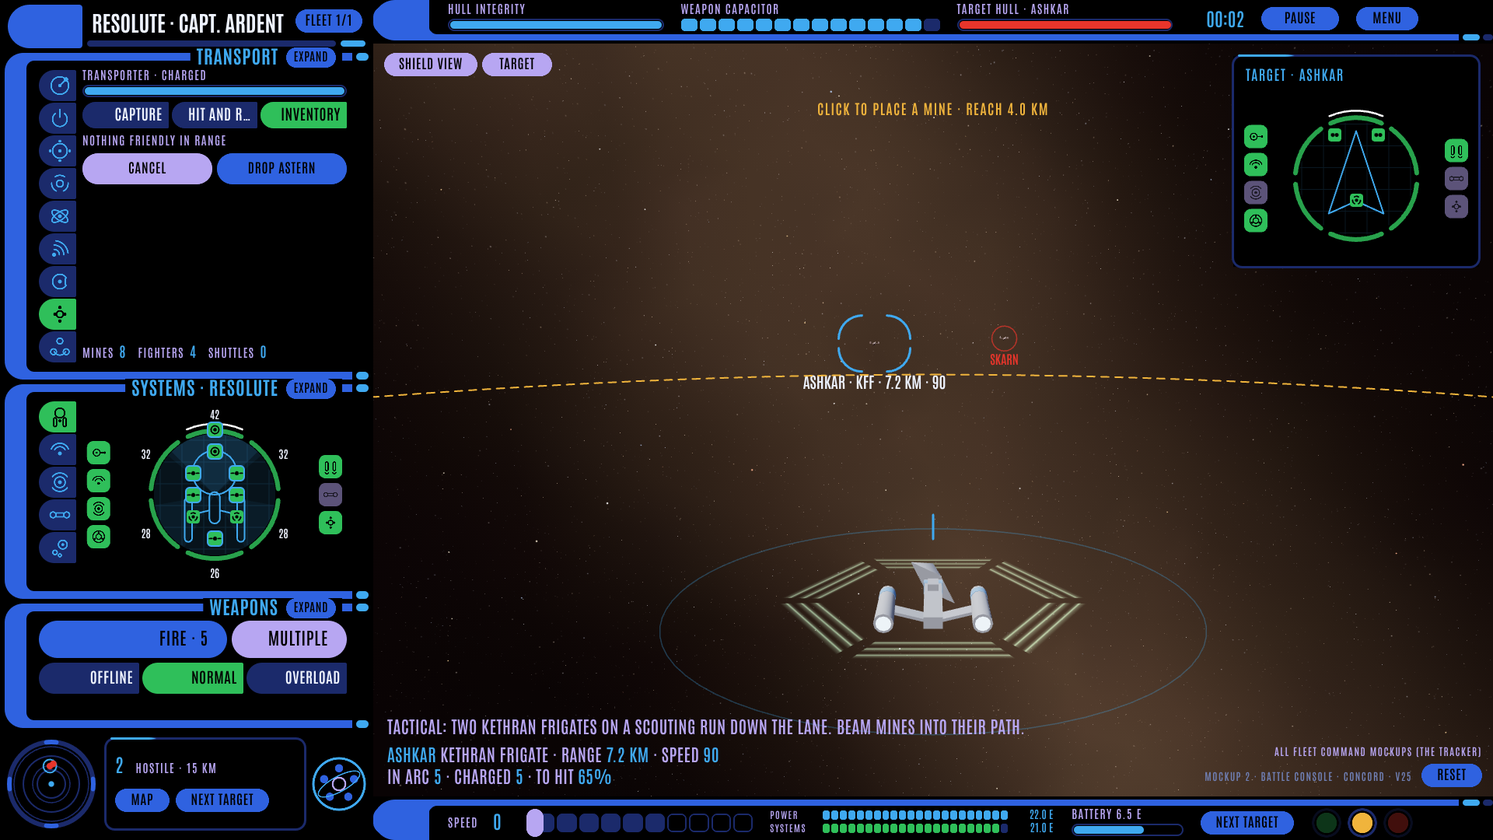
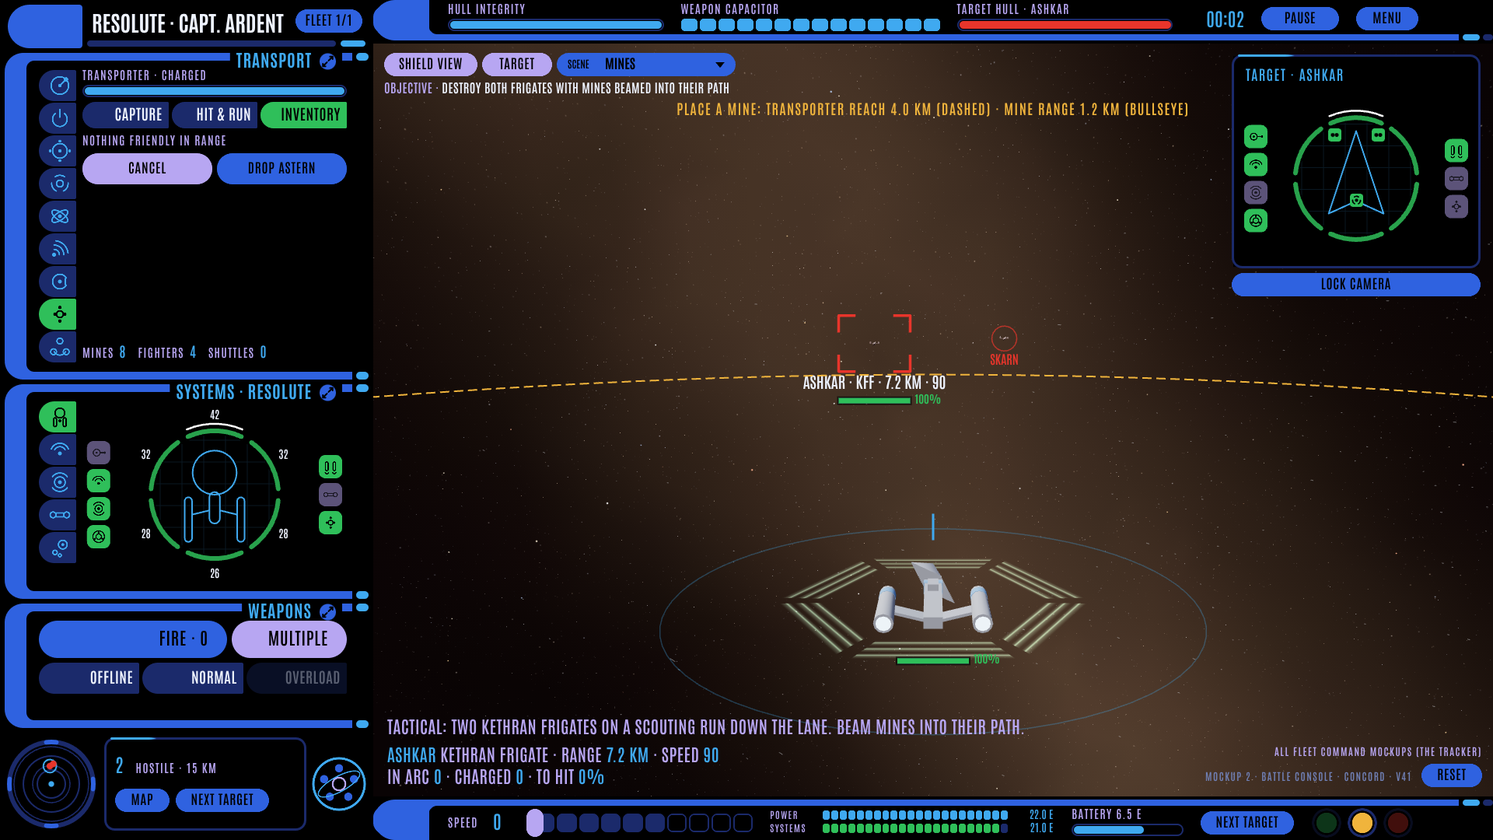
Battle console v41: scene drop-down with objectives, unarmed test ships, decisive tools
Claude-Session: https://claude.ai/code/session_01RGPQuqAYNNJKpzbbbZ3BfB

diff --git a/docs/mockups/battle-console.html b/docs/mockups/battle-console.html
@@ -576,10 +576,15 @@ const SHUTTLE = { speed_u_s: 5, dmg: 110 * 4, suspect_km: 1.5, catch_p_s: 0.25 }
 // missile every interval_s from the racks, each hitting at hit_p unless point defence takes it.
 const BARRAGE = { salvo: 6, interval_s: 0.2, hit_p: 0.85 };
 // The test scenes (owner, 2026-11-01: "I also want different test scenes"): picked from the menu, each a seeded world.
+// Each has an objective shown under the scene selector, done() saying when it is met. In a test scene the player's ship
+// carries no weapons (armed: false) and the scene's tool is decisive (lethal: one mine, one shuttle, a dragged ship into
+// a rock, a barrage past the point defence each destroy their target) (owner, 2026-11-02: "In mine scene, no weapons on
+// my player ship please, enemies should be destroyed by one mine, same with other missions in this demo. transport
+// missions will also not have weapons on ship").
 // `ships` override SCENARIO's list, `rocks` are asteroids { x, z, r } in units, `setup` adjusts the world once made.
 const SCENES = {
-  battle: { name: 'Battle', ships: null, target: 'vorrak', say: ['Helm', 'Kethran and Vos contacts ahead. Shields up.'] },
-  mines: { name: 'Mines', endless: true, target: 'ashkar',
+  battle: { name: 'Battle', objective: 'Destroy the Kethran and Vos ships', done: (W) => !W.ships.some((o) => o.alive && o.side === 1), ships: null, target: 'vorrak', say: ['Helm', 'Kethran and Vos contacts ahead. Shields up.'] },
+  mines: { name: 'Mines', objective: 'Destroy both frigates with mines beamed into their path', armed: false, lethal: ['mine'], done: (W) => !W.ships.some((o) => o.alive && o.side === 1), endless: true, target: 'ashkar',
     ships: [
       { id: 'resolute', name: 'Resolute', captain: 'Capt. Ardent', cls: 'ca', faction: 'concord', side: 0, x: 0, z: 0, h: 0, v: 0 },
       { id: 'ashkar', name: 'Ashkar', captain: 'Blade Oru', cls: 'kff', faction: 'kethran', side: 1, x: -6, z: -75, h: 178, v: 160 },
@@ -589,7 +594,7 @@ const SCENES = {
     // so the scene tests the mines, not a gunfight
     setup: (W) => { const s = W.player; s.mines = 8; s.power.weapons = 3; s.power.transport = 3; s.transporter = 1; for (const o of W.ships) if (o.side === 1) { o.ai.stance = 'run'; o.ai.fire = 'hold'; } },
     say: ['Tactical', 'Two Kethran frigates on a scouting run down the lane. Beam mines into their path.'] },
-  tractor: { name: 'Tractor', endless: true, target: 'vorrak',
+  tractor: { name: 'Tractor', objective: 'Hold the Vorrak and drag it into the rocks', armed: false, lethal: ['rock'], done: (W) => !ship('vorrak').alive, endless: true, target: 'vorrak',
     ships: [
       { id: 'resolute', name: 'Resolute', captain: 'Capt. Ardent', cls: 'ca', faction: 'concord', side: 0, x: 0, z: 0, h: 180, v: 0 },
       { id: 'vorrak', name: 'Vorrak', captain: 'Warlord Tesk', cls: 'kdd', faction: 'kethran', side: 1, x: 2, z: -22, h: 90, v: 60 },
@@ -598,7 +603,7 @@ const SCENES = {
     rocks: [{ x: 1, z: -12, r: 2.4 }, { x: -14, z: -30, r: 3 }, { x: 13, z: -36, r: 3.6 }, { x: -3, z: -50, r: 2.6 }, { x: 21, z: -16, r: 2.2 }, { x: -22, z: -12, r: 2.8 }, { x: 7, z: -62, r: 4 }, { x: -17, z: -58, r: 3.1 }, { x: 26, z: -48, r: 2.4 }],
     setup: (W) => { const s = W.player, v = ship('vorrak'); s.power.weapons = 2; s.power.tractor = 6; v.ai.stance = 'hold'; v.ai.fire = 'hold'; v.sys.tractor = 0.6; },
     say: ['Tactical', 'The Vorrak is astern, a rock between us. Hold it, then run and drag it into the rocks.'] },
-  boarding: { name: 'Boarding', endless: true, target: 'rattlejaw',
+  boarding: { name: 'Boarding', objective: 'Board the Rattlejaw and take it (raid its systems first, if you like)', armed: false, done: (W) => ship('rattlejaw').side === 0, endless: true, target: 'rattlejaw',
     ships: [
       { id: 'resolute', name: 'Resolute', captain: 'Capt. Ardent', cls: 'ca', faction: 'concord', side: 0, x: 0, z: 0, h: 0, v: 0 },
       { id: 'rattlejaw', name: 'Rattlejaw', captain: 'Mother Skeel', cls: 'vcr', faction: 'vos', side: 1, x: 5, z: -18, h: 200, v: 0 },
@@ -610,7 +615,7 @@ const SCENES = {
     say: ['Tactical', 'Rattlejaw is crippled, shields down. Raid its systems, or board and take it.'] },
   // Owner, 2026-11-02: warp, with "quantum-gravitational stability - requires safety override if environment is highly
   // unstable. this usually happens around neutron stars, black holes, and anomalies".
-  warp: { name: 'Warp', target: 'ashkar', endless: true,
+  warp: { name: 'Warp', objective: 'Jump to warp before the frigates catch you', armed: false, done: (W) => !!W.player.jumped, target: 'ashkar', endless: true,
     ships: [
       { id: 'resolute', name: 'Resolute', captain: 'Capt. Ardent', cls: 'ca', faction: 'concord', side: 0, x: 0, z: 0, h: 0, v: 0 },
       { id: 'ashkar', name: 'Ashkar', captain: 'Blade Oru', cls: 'kff', faction: 'kethran', side: 1, x: 40, z: 120, h: 300, v: 160 },
@@ -621,7 +626,7 @@ const SCENES = {
     setup: (W) => { const s = W.player; s.warp.banks = 12; s.warp.nacelles[0].hp = 0.7; s.reactor.coolant = 0.8; s.power.warp = 4; s.power.weapons = 4; },
     say: ['Helm', 'Kethran frigates closing from astern, and the neutron star ahead bends space. Charge the banks, plot a course and jump.'] },
   // Owner, 2026-11-01: "A delivery mission from a station to a planet".
-  delivery: { name: 'Delivery', target: null, endless: true,
+  delivery: { name: 'Delivery', objective: 'Take 10 crates from Harbor Nine and beam them down to Tessaly', armed: false, done: (W) => W.planets[0].got >= W.planets[0].need, target: null, endless: true,
     ships: [
       { id: 'resolute', name: 'Resolute', captain: 'Capt. Ardent', cls: 'ca', faction: 'concord', side: 0, x: 0, z: 0, h: 0, v: 0 },
       { id: 'harbor', name: 'Harbor Nine', captain: 'Stationmaster Pell', cls: 'sb', faction: 'concord', side: 0, x: 8, z: -12, h: 0, v: 0 },
@@ -630,7 +635,7 @@ const SCENES = {
     setup: (W) => { const s = W.player, h = ship('harbor'); s.cargo = 0; s.power.transport = 3; s.transporter = 1; h.cargo = 20; h.cargoCap = 40; invDest = 'harbor'; },
     say: ['Comms', 'Harbor Nine: ten crates of medical stores for Tessaly. Beam them aboard and take them down.'] },
   // Owner: "The vip one is similar but you transport him on a ship with Marines and he works to capture a station".
-  vip: { name: 'VIP', target: 'varn', endless: true,
+  vip: { name: 'VIP', objective: 'Beam the envoy to the Corrin and see Varn Outpost taken', armed: false, done: (W) => ship('varn').side === 0, target: 'varn', endless: true,
     ships: [
       { id: 'resolute', name: 'Resolute', captain: 'Capt. Ardent', cls: 'ca', faction: 'concord', side: 0, x: 0, z: 0, h: 0, v: 0 },
       { id: 'corrin', name: 'Corrin', captain: 'Major Vale', cls: 'tr', faction: 'concord', side: 0, x: -7, z: 4, h: 0, v: 0 },
@@ -639,19 +644,19 @@ const SCENES = {
     setup: (W) => { const s = W.player, c = ship('corrin'), v = ship('varn'); s.vip = 'Envoy Saros'; s.vipName = 'Envoy Saros'; s.power.transport = 3; s.transporter = 1; invDest = 'corrin';
       c.ai.capture = 'varn'; c.vipName = 'Envoy Saros';
       // the outpost is worn down: weak shields that do not regenerate, most of its guns out
-      v.shields = v.shields.map(() => 8); v.power.shields = 0; v.marines = 8; v.mounts.forEach((m, i) => { if (i > 1 && m.w !== 'pd') { m.hp = 0; m.charge = 0; } }); },
-    say: ['Comms', 'Envoy Saros is aboard. Beam him to the Corrin; it takes him and its marines to Varn Outpost. Knock a shield facing down for them.'] },
+      v.shields = v.shields.map(() => 0); v.shUp = false; v.power.shields = 0; v.ai.fire = 'hold'; v.marines = 8; v.mounts.forEach((m, i) => { if (i > 1 && m.w !== 'pd') { m.hp = 0; m.charge = 0; } }); },
+    say: ['Comms', 'Envoy Saros is aboard. Beam him to the Corrin; it takes him and its marines to Varn Outpost, whose shields have failed.'] },
   // Owner: "Shuttle scene - a disguised shuttle leaves your ship and suicide bombs a station."
-  shuttle: { name: 'Shuttle', target: 'varn', endless: true,
+  shuttle: { name: 'Shuttle', objective: 'Destroy Varn Outpost with a disguised shuttle', armed: false, lethal: ['shuttle'], done: (W) => !ship('varn').alive, target: 'varn', endless: true,
     ships: [
       { id: 'resolute', name: 'Resolute', captain: 'Capt. Ardent', cls: 'ca', faction: 'concord', side: 0, x: 0, z: 0, h: 0, v: 0 },
       { id: 'varn', name: 'Varn Outpost', captain: 'Castellan Dorr', cls: 'sb', faction: 'kethran', side: 1, x: 0, z: -100, h: 0, v: 0 },
     ],
-    setup: (W) => { const s = W.player; s.shuttles = 3; },
+    setup: (W) => { const s = W.player; s.shuttles = 3; ship('varn').ai.fire = 'hold'; },
     say: ['Flight deck', 'Three shuttles fitted out as freighters, charges aboard. Launch them at Varn Outpost from the Craft panel.'] },
   // Owner: "Fighters scene. Deploy fighters to take down another ships defenses, and fire a missile barage to take it
   // down."
-  fighters: { name: 'Fighters', target: 'ironhold', endless: true,
+  fighters: { name: 'Fighters', objective: 'Strip the Ironhold\'s point defence with fighters, then destroy it with a missile barrage', armed: false, lethal: ['barrage'], done: (W) => !ship('ironhold').alive, target: 'ironhold', endless: true,
     ships: [
       { id: 'resolute', name: 'Resolute', captain: 'Capt. Ardent', cls: 'ca', faction: 'concord', side: 0, x: 0, z: 0, h: 0, v: 0 },
       { id: 'ironhold', name: 'Ironhold', captain: 'Warlord Brask', cls: 'kdd', faction: 'kethran', side: 1, x: 0, z: -60, h: 180, v: 0 },
@@ -739,7 +744,8 @@ function makeShip(d) {
     het: null, hetChance: clamp(0.95 - c.len_m / 2000, 0.6, 0.95), broke: 0, erratic: false, estop: false, estopT: 0, orbitDir: 1, holdKm: 6, runMin: 2, runMax: 8, runPhase: 'in',
     alert: 'yellow', priority: 'engines', alive: true, flash: [0, 0, 0, 0, 0, 0], thinkT: 0, volley: true, intercepts: 0 };
 }
-let sceneId = 'battle';
+// the scene last picked, remembered in this browser (a convenience; the page works without it)
+let sceneId = (() => { try { const v = localStorage.getItem('fc.battle.scene'); return v && SCENES[v] ? v : 'battle'; } catch (e) { return 'battle'; } })();
 function newWorld(id = sceneId) {
   const sc = SCENES[id]; sceneId = id;
   const planets = (sc.planets || []).map((pl) => ({ got: 0, need: 0, ...pl }));
@@ -751,6 +757,8 @@ function newWorld(id = sceneId) {
   W.player.target = sc.target;
   for (const s of W.ships) if (s.side === 1) s.ecm = 1;
   if (sc.setup) sc.setup(W);
+  if (sc.armed === false) W.player.mounts = [];
+  W.lethal = new Set(sc.lethal || []); W.objDone = false;
   W.hadFoes = W.ships.some((o) => o.side === 1);
   say(sc.say[0], sc.say[1]);
 }
@@ -771,6 +779,7 @@ function step() {
   for (const s of W.ships) if (s.alive && s.beam) towStep(s);
   rocksStep();
   pdStep(); shotsStep(); minesStep(); craftStep();
+  if (!W.objDone && SCENES[sceneId].done && SCENES[sceneId].done(W)) { W.objDone = true; say('Comms', `Objective complete: ${SCENES[sceneId].objective}.`); }
   const foes = W.ships.filter((s) => s.side === 1 && s.alive).length;
   // test scenes run on after the last enemy is gone (a capture should be seen joining the fleet); restart from the menu
   if (!foes && SCENES[sceneId].endless) { if (!W.endSaid && W.hadFoes) { W.endSaid = true; say('Tactical', W.overWhy || 'No hostile ships left. Restart the scene from the menu.'); } }
@@ -889,7 +898,7 @@ function rocksStep() {
       s.bumpT = ROCK.cooldown_s; s.v *= ROCK.speed_frac;
       const dmg = Math.round(ROCK.dmg * Math.max(ROCK.speed_floor, spd / ROCK.speed_ref_m_s));
       say('Tactical', `${s.name} hits ${r.name || 'an asteroid'} at ${Math.round(spd)} m/s: ${dmg} damage.`);
-      damage(s, { x: r.x, z: r.z, side: -1 }, dmg, 'hull');
+      damage(s, { x: r.x, z: r.z, side: -1 }, W.lethal.has('rock') && s !== W.player && !r.planet ? s.hull + 400 : dmg, 'hull');
     }
   }
 }
@@ -1089,7 +1098,7 @@ function damage(t, src, dmg, aim) {
     if (t === W.player) say('Engineering', l.hp <= 0 ? `Coolant loop ${'AB'[j]} offline.` : `Coolant loop ${'AB'[j]} damaged.`); }
   // a hit may damage a warp nacelle
   if (R() < 0.15) { const n = t.warp.nacelles[Math.floor(R() * t.warp.nacelles.length)]; n.hp = Math.max(0, n.hp - 0.25); if (t === W.player) say('Engineering', n.hp <= 0 ? 'A warp nacelle is out.' : 'Warp nacelle damaged.'); }
-  if (R() < 0.15 + (aim === 'weapons' ? 0.25 : 0)) { const m = t.mounts[Math.floor(R() * t.mounts.length)]; m.hp = Math.max(0, m.hp - 0.6); if (m.hp <= 0) m.charge = 0; }
+  if (t.mounts.length && R() < 0.15 + (aim === 'weapons' ? 0.25 : 0)) { const m = t.mounts[Math.floor(R() * t.mounts.length)]; m.hp = Math.max(0, m.hp - 0.6); if (m.hp <= 0) m.charge = 0; }
   if (t.side === 0 || src.side === 0) if (t === W.player || src === W.player) say(t === W.player ? 'Engineering' : 'Tactical', t === W.player ? `Hull hit through the ${FACINGS[f]} shield.` : `Hit on ${t.name}, ${FACINGS[f]} facing.`);
   if (t.hull <= 0) { t.hull = 0; t.alive = false; t.v = 0; boom(t); say('Tactical', `${t.name} destroyed.`); for (const o of W.ships) if (o.target === t.id) o.target = null; }
 }
@@ -1125,7 +1134,7 @@ function pdStep() {
 function minesStep() {
   for (const mn of W.mines) {
     mn.arm -= DT; if (mn.arm > 0 || mn.gone) continue;
-    for (const s of W.ships) if (s.alive && s.side !== mn.side && Math.hypot(s.x - mn.x, s.z - mn.z) < MINE.trigger_u) { damage(s, { x: mn.x, z: mn.z, side: mn.side }, MINE.dmg, 'hull'); mn.gone = true; boomAt(mn.x, mn.z, 0.8); say('Tactical', `Mine detonated on ${s.name}.`); break; }
+    for (const s of W.ships) if (s.alive && s.side !== mn.side && Math.hypot(s.x - mn.x, s.z - mn.z) < MINE.trigger_u) { damage(s, { x: mn.x, z: mn.z, side: mn.side }, W.lethal.has('mine') ? s.hull + 400 : MINE.dmg, 'hull'); mn.gone = true; boomAt(mn.x, mn.z, 0.8); say('Tactical', `Mine detonated on ${s.name}.`); break; }
   }
   W.mines = W.mines.filter((m) => !m.gone);
 }
@@ -1262,7 +1271,7 @@ const A = {
     if (s.mines <= 0 || s.mineCool > 0 || s.transporter < 1) return;
     const d = Math.hypot(x - s.x, z - s.z) / 10; if (d > TRANSPORT.range_km) { say('Transport', `Out of transporter range (${km(TRANSPORT.range_km)}).`); return; }
     s.mines--; s.mineCool = MINE.cooldown_s; s.transporter = 0; W.mines.push({ x, z, side: s.side, arm: MINE.arm_s }); say('Transport', `Mine beamed out to ${km(d)}.`); },
-  scene: (id) => { sceneId = id; A.reset(); menuOpen = false; },
+  scene: (id) => { sceneId = id; try { localStorage.setItem('fc.battle.scene', id); } catch (e) { /* storage blocked */ } A.reset(); menuOpen = false; },
   // Warp: plot a course on the heading ordered now, the safety override, and the jump.
   plot: () => { const w = W.player.warp; w.plotting = true; w.plotH = W.player.hOrder; w.plot = 0; w.drift = false; say('Navigation', `Plotting a course on ${String(Math.round(((w.plotH / DEG) + 360) % 360)).padStart(3, '0')}.`); },
   override: () => { const w = W.player.warp; w.override = !w.override; say('Helm', w.override ? 'Safety override on.' : 'Safety override off.'); },
@@ -1370,7 +1379,7 @@ function shuttleStep(c) {
     c.caught = true; c.gone = true; boomAt(c.x, c.z, 0.6); say('Tactical', `${t.name} saw through the shuttle and shot it down.`); return;
   }
   if (d <= sp + hullR(t)) {
-    c.gone = true; boomAt(c.x, c.z, 2.2); t.hull -= SHUTTLE.dmg;
+    c.gone = true; boomAt(c.x, c.z, 2.2); t.hull -= W.lethal.has('shuttle') ? t.hull : SHUTTLE.dmg;
     const keys = Object.keys(t.sys); t.sys[keys[Math.floor(W.rand.dmg() * keys.length)]] *= 0.4;
     say('Tactical', `Shuttle detonated against ${t.name}: ${SHUTTLE.dmg} damage to the hull.`);
     if (t.hull <= 0) { t.hull = 0; t.alive = false; t.v = 0; boom(t); say('Tactical', `${t.name} destroyed.`); for (const o of W.ships) if (o.target === t.id) o.target = null; }
@@ -1385,7 +1394,7 @@ function barrageStep(s) {
   if ((s.barrageT -= DT) > 0) return;
   s.barrageT = BARRAGE.interval_s; s.barrage--; s.missiles--;
   const w = WEAPONS.missile, side = s.barrage % 2 ? 1 : -1, r = rightOf(s.h);
-  W.shots.push({ kind: 'missile', x: s.x + r[0] * side, z: s.z + r[1] * side, to: t.id, from: s.id, hit: W.rand.hit() < BARRAGE.hit_p, dmg: w.dmg, speed: w.speed_m_s / M_PER_U, color: w.color, life: 30, aim: 'hull' });
+  W.shots.push({ kind: 'missile', x: s.x + r[0] * side, z: s.z + r[1] * side, to: t.id, from: s.id, hit: W.rand.hit() < BARRAGE.hit_p, dmg: W.lethal.has('barrage') ? CLASSES[t.cls].hull / 3 : w.dmg, speed: w.speed_m_s / M_PER_U, color: w.color, life: 30, aim: 'hull' });
 }
 const KEYS = { KeyA: () => A.turn(-15), KeyD: () => A.turn(15), KeyQ: () => A.turn(-45), KeyE: () => A.turn(45), KeyW: () => A.speedStep(1), KeyS: () => A.speedStep(-1),
   KeyX: () => A.allStop(), Space: () => A.fire(), Tab: () => A.nextTarget(), KeyP: () => A.pause(), Escape: () => (expanded ? A.expand(expanded) : A.menu()), KeyM: () => A.volley() };
@@ -2460,6 +2469,7 @@ function uiWeapons(r, big) {
 // The picked mount's details (the lower half of the expanded weapons panel): every figure from the rules the shot uses.
 let wDetail = 0;
 function weaponDetail(r, s, t) {
+  if (!s.mounts.length) { LBL('No weapons fitted', r.x, r.y + 26, 0, CC.lilac, 'left', 18); return; }
   const m = s.mounts[wDetail] || s.mounts[0], w = spec(m), st = mountStatus(s, m), cool = cooldownS(m), x0 = r.x, cw = r.w / 2 - 12;
   text(`${m.i + 1} · ${WEAPONS[m.w].name}`.toUpperCase(), x0, r.y + 26, '700 26px Antonio', CC.sky, 'left', cw, '1px');
   pairs('wd.a', x0, r.y + 62, [['Status', st, STATUS_COL[st]], ['Health', pct(clamp(m.hp, 0, 1))]], cw, 20);
@@ -2908,7 +2918,13 @@ function uiView() {
   button('v.shields', vx + 14, vy + 12, 120, 30, 'Shield view', () => { showShields = !showShields; }, { sel: () => showShields, center: true });
   button('v.target', vx + 140, vy + 12, 90, 30, 'Target', () => { showTargetCam = !showTargetCam; }, { sel: () => showTargetCam, center: true });
   // The scene selector (owner, 2026-11-02: "I would like a scene selector"): the scene in play, and a list to pick from.
-  button('v.scene', vx + 236, vy + 12, 190, 30, `Scene · ${SCENES[sceneId].name}`, () => { sceneOpen = !sceneOpen; }, { sel: () => sceneOpen, center: true });
+  { // a drop-down: the label, the scene in play, an arrow; the objective under it, green and marked once met
+    const sx = vx + 236, sw = 230, st = hit('v.scene', sx, vy + 12, sw, 30, { click: () => { sceneOpen = !sceneOpen; }, tip: 'Pick a test scene' });
+    g.fillStyle = st.hot || sceneOpen ? CC.sky : CC.signal; g.beginPath(); g.roundRect(sx, vy + 12, sw, 30, 15); g.fill();
+    g.fillStyle = '#000'; g.font = '600 13px Antonio'; g.textAlign = 'left'; g.fillText('SCENE', sx + 14, vy + 32);
+    g.font = '700 17px Antonio'; g.fillText(SCENES[sceneId].name.toUpperCase(), sx + 62, vy + 33);
+    g.beginPath(); const ax = sx + sw - 20, ay = vy + 27; if (sceneOpen) { g.moveTo(ax - 6, ay + 3); g.lineTo(ax + 6, ay + 3); g.lineTo(ax, ay - 4); } else { g.moveTo(ax - 6, ay - 3); g.lineTo(ax + 6, ay - 3); g.lineTo(ax, ay + 4); } g.closePath(); g.fill();
+    const ob = SCENES[sceneId].objective; if (ob && !sceneOpen) rich(vx + 14, vy + 64, [[W.objDone ? 'COMPLETE · ' : 'OBJECTIVE · ', W.objDone ? CC.accord : CC.lilac], [ob.toUpperCase(), W.objDone ? CC.accord : CC.text]], '600 16px Antonio', vw * 0.62); }
   if (paused) LBL('Paused · orders still taken', vx + vw / 2, vy + 40, 0, CC.caution, 'center', 28);
   // The readout and the last officer's message, bottom left.
   const ry = vy + vh - 16;
@@ -2928,12 +2944,12 @@ function uiView() {
     button('v.camlock', bx, by + ir[3] + 6, ir[2], 30, camLock ? 'Camera locked' : 'Lock camera', A.camLock, { sel: () => camLock, center: true });
   }
   if (lock) button('v.lock', lock[0], lock[1], 140, 30, 'Lock target', () => A.lock(lock[2]), { center: true });
-  LBL('Mockup 2 · Battle console · Concord · v40', vx + vw - 104, vy + vh - 20, 0, '#6f7fb4', 'right', 13);
+  LBL('Mockup 2 · Battle console · Concord · v41', vx + vw - 104, vy + vh - 20, 0, '#6f7fb4', 'right', 13);
   button('v.reset', vx + vw - 92, vy + vh - 42, 78, 30, 'Reset', A.reset, { center: true });
   if (sceneOpen) {
     // a click anywhere else closes the list
     hit('v.scene.off', vx, vy, vw, vh, { click: () => { sceneOpen = false; } });
-    const list = Object.entries(SCENES), lx = vx + 236, ly = vy + 48, lw = 190;
+    const list = Object.entries(SCENES), lx = vx + 236, ly = vy + 48, lw = 230;
     g.fillStyle = 'rgba(0,0,0,0.85)'; g.beginPath(); g.roundRect(lx - 6, ly - 6, lw + 12, list.length * 38 + 8, 10); g.fill();
     list.forEach(([k, v], i) => button(`v.scene.${k}`, lx, ly + i * 38, lw, 32, v.name, () => { sceneOpen = false; A.scene(k); }, { sel: () => k === sceneId, center: true }));
   }

diff --git a/docs/mockups/tracker.html b/docs/mockups/tracker.html
@@ -111,7 +111,7 @@ const MOCKUPS = [
     url: 'https://claude.ai/artifact/UBbAouwAU3JvcbGf6MhzLt', published: '2026-10-30', version: 5,
     summary: 'Main menu, skirmish (scenario, point budget, fleet and loadout), the campaign hex map with standees, port panels and missions, deploy, a stand-in battle, results, and back to the map.' },
   { id: 'M2', title: 'In-game UI', change: 'battle-console', page: 'docs/mockups/battle-console.html',
-    url: 'https://claude.ai/artifact/9yertq3bYQRmFiDE7N9eBs', published: '2026-11-02', version: 40,
+    url: 'https://claude.ai/artifact/9yertq3bYQRmFiDE7N9eBs', published: '2026-11-02', version: 41,
     summary: 'The battle console in the Concord skin around a live stand-in battle, desktop first: nine stations and five ship pages on narrow columns of icon tabs named on hover, the ship systems display, weapons, radar and tactical map, a speed handle, Power over Systems with the battery, and the power station\'s Reactor mode: a diagram of the core, coils and coolant loops worked by hand, with a meltdown to avoid. Every panel works and expands.' },
   { id: 'M3', title: 'Look dev', change: 'look-dev', page: 'docs/mockups/look-dev.html',
     url: '', published: '', version: 0,

diff --git a/openspec/changes/battle-console/design.md b/openspec/changes/battle-console/design.md
@@ -288,6 +288,26 @@ The energy in the tractor is drawn every second like any other system, so holdin
 shields. In the 3D view the beam is a pale line from holder to held, brighter as the grip tightens. An enemy holds you
 only by turning your beam; whether enemies should start a hold on their own is B11.
 
+## 4m. Objectives, unarmed test ships, decisive tools (version 41)
+
+Owner, 2026-11-02: "show proper scene selection here, and show the objective of current scene. In mine scene, no weapons
+on my player ship please, enemies should be destroyed by one mine, same with other missions in this demo. transport
+missions will also not have weapons on ship etc...", and "current scene always says scene battle right now".
+
+- **The scene selector is a drop-down**: SCENE, the scene in play, an arrow; its list opens under it. The scene picked is
+  remembered in this browser, so a reload keeps it (the likely cause of "always says battle": a reload restarted the page
+  in Battle).
+- **Each scene has an objective**, shown under the selector, turning green and marked COMPLETE when met (and announced in
+  the log): Battle, destroy the Kethran and Vos ships; Mines, destroy both frigates with mines; Tractor, drag the Vorrak
+  into the rocks; Boarding, take the Rattlejaw; Warp, jump before the frigates catch you; Delivery, 10 crates to
+  Tessaly; VIP, see Varn Outpost taken; Shuttle, destroy Varn Outpost with a shuttle; Fighters, strip the Ironhold's
+  point defence, then destroy it with a barrage.
+- **In every test scene the Resolute carries no weapons**; the scene's tool does the work.
+- **The tool is decisive**: one mine destroys a frigate; a ship dragged into a rock breaks up; one disguised shuttle
+  destroys the outpost; each barrage missile that lands takes a third of the target's hull, so a barrage past the point
+  defence finishes it. The VIP scene's outpost has lost its shields and holds fire; the shuttle scene's outpost holds fire.
+- Measured: every scene played through to its objective with an unarmed Resolute.
+
 ## 4l. The mine placement preview (version 40)
 
 Owner, 2026-11-02: "when placing mines, need to draw radius of mine when mouse hovers over the battle field, mine

diff --git a/docs/artifacts/battle-console/README.md b/docs/artifacts/battle-console/README.md
@@ -58,3 +58,4 @@
 - Version 38 published 2026-11-02, version id `1793601438-8fb3`: the evasive icon redrawn (a bold zigzag with its head aimed along the last stroke).
 - Version 39 published 2026-11-02, version id `1793601524-e678`: a failed high energy turn damages the impulse engines and leaves the ship dead in space for 15 s (the owner's rule); the readouts renamed To hit, HET (counting a breakdown down), Heading, Speed.
 - Version 40 published 2026-11-02, version id `1793601692-846d`: the mine placement preview (an animated bullseye of the mine's 1.2 km range under the pointer: yellow, red with a ship in range, grey and "Invalid position" outside the 4 km transporter reach).
+- Version 41 published 2026-11-02, version id `1793601920-a5e5`: the scene selector as a drop-down (remembered across reloads) with the scene's objective under it (green, COMPLETE when met); an unarmed Resolute in every test scene; each scene's tool decisive (one mine, one shuttle, a rock, a barrage past the point defence).

diff --git a/mockup-work.md b/mockup-work.md
@@ -22,7 +22,7 @@ account and every link here is updated.
 | # | Mockup | Stage | OpenSpec change | Page | Link |
 |---|---|---|---|---|---|
 | 1 | Primary game flow | Drafted (2026-10-30, v5) | `game-flow` | `docs/mockups/game-flow.html` | https://claude.ai/artifact/UBbAouwAU3JvcbGf6MhzLt |
-| 2 | In-game UI | Drafted (2026-11-02, v40) | `battle-console` | `docs/mockups/battle-console.html` | https://claude.ai/artifact/9yertq3bYQRmFiDE7N9eBs |
+| 2 | In-game UI | Drafted (2026-11-02, v41) | `battle-console` | `docs/mockups/battle-console.html` | https://claude.ai/artifact/9yertq3bYQRmFiDE7N9eBs |
 | 3 | Look dev | Listed | `look-dev` (to write) | `docs/mockups/look-dev.html` | |
 | 4 | Console skins | Drafted (2026-10-31, v25) | `console-skins` | `docs/mockups/console-skins.html` | https://claude.ai/artifact/UTpgsPvZJrLfkEUmJN7CVb |
 
